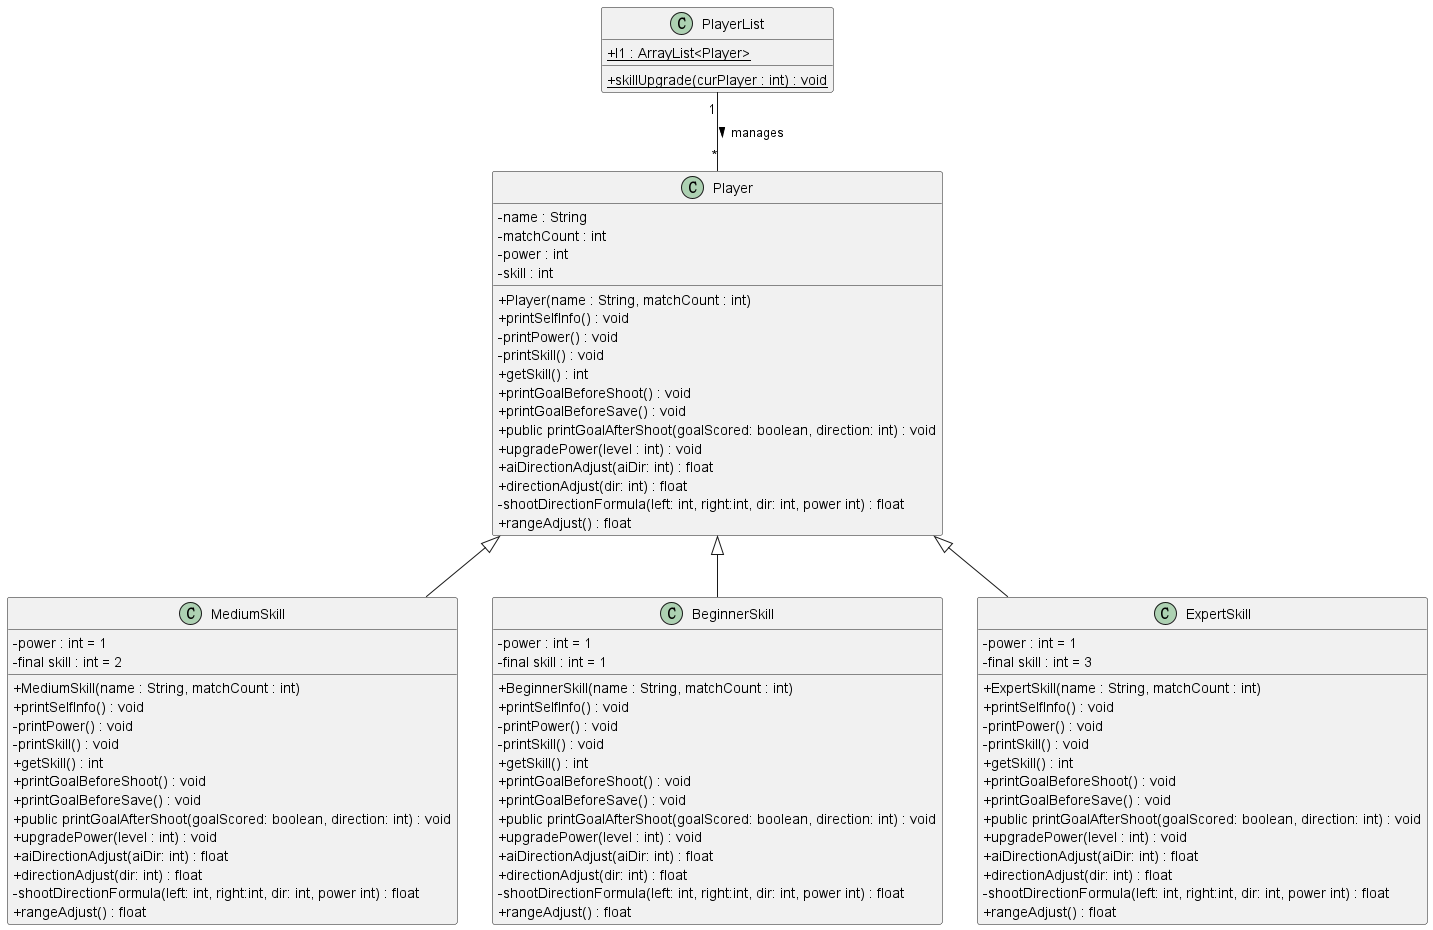
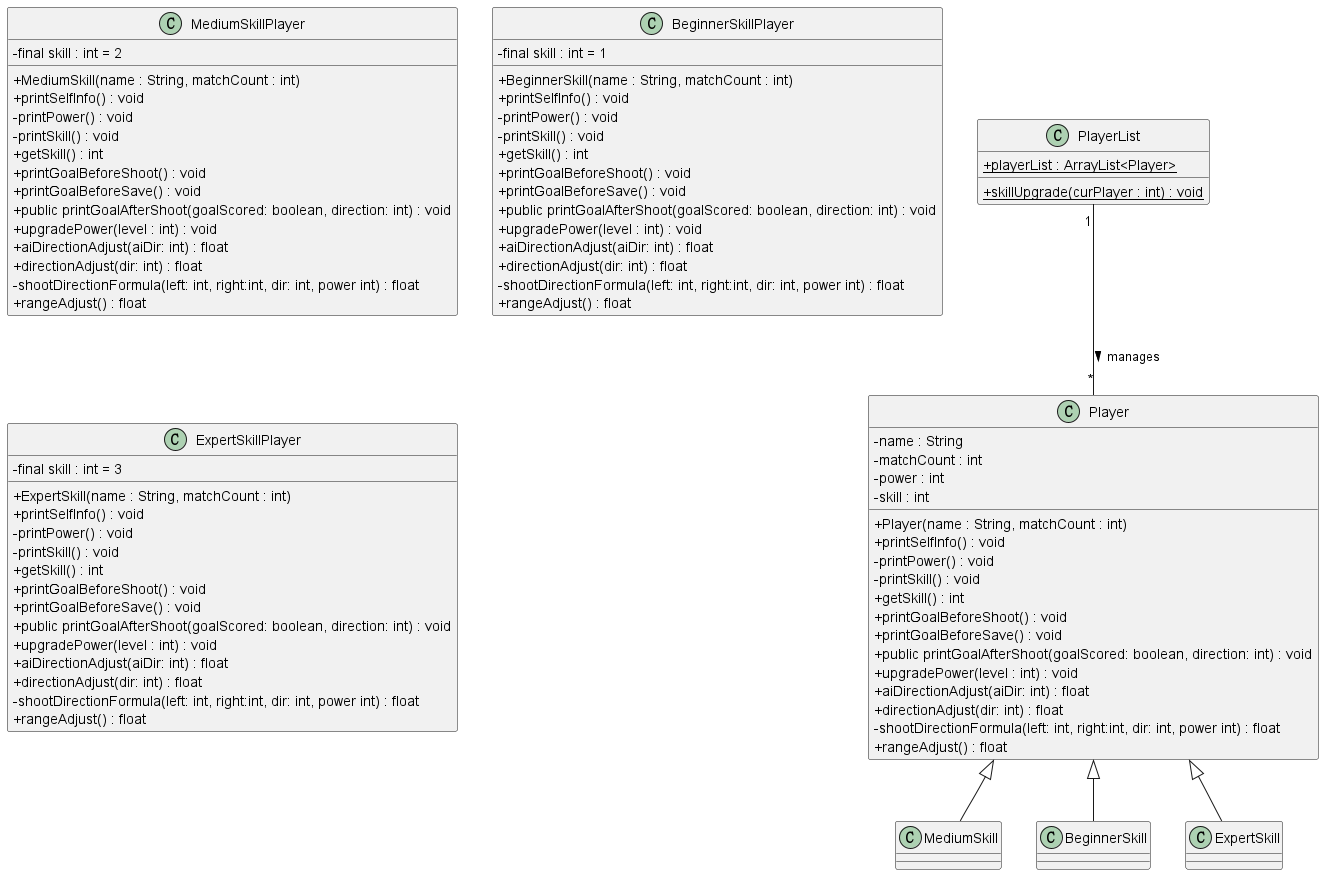
Minor changes on code quality

diff --git a/src/test/java/seedu/duke/PlayerListTest.java b/src/test/java/seedu/duke/PlayerListTest.java
@@ -1,55 +1,55 @@
 package seedu.duke;
 
 import org.junit.jupiter.api.Test;
-import seedu.duke.player.BeginnerSkill;
-import seedu.duke.player.ExpertSkill;
-import seedu.duke.player.MediumSkill;
+import seedu.duke.player.BeginnerSkillPlayer;
+import seedu.duke.player.ExpertSkillPlayer;
+import seedu.duke.player.MediumSkillPlayer;
 
 import static org.junit.jupiter.api.Assertions.*;
 
 class PlayerListTest {
     @Test
     void skillUpgrade_beginner5_expectMedium() {
-        PlayerList.l1.clear();
-        PlayerList.l1.add(new BeginnerSkill("Player1", 5)); // Assuming matchCount is 5
+        PlayerList.playerList.clear();
+        PlayerList.playerList.add(new BeginnerSkillPlayer("Player1", 5)); // Assuming matchCount is 5
         PlayerList.skillUpgrade(0);
-        assertEquals(1, PlayerList.l1.size());
-        assertTrue(PlayerList.l1.get(0) instanceof MediumSkill);
+        assertEquals(1, PlayerList.playerList.size());
+        assertTrue(PlayerList.playerList.get(0) instanceof MediumSkillPlayer);
     }
 
     @Test
     void skillUpgrade_medium3_expectMedium() {
-        PlayerList.l1.clear();
-        PlayerList.l1.add(new MediumSkill("Player1", 3)); // Assuming matchCount is 5
+        PlayerList.playerList.clear();
+        PlayerList.playerList.add(new MediumSkillPlayer("Player1", 3)); // Assuming matchCount is 5
         PlayerList.skillUpgrade(0);
-        assertEquals(1, PlayerList.l1.size());
-        assertTrue(PlayerList.l1.get(0) instanceof MediumSkill);
+        assertEquals(1, PlayerList.playerList.size());
+        assertTrue(PlayerList.playerList.get(0) instanceof MediumSkillPlayer);
     }
 
     @Test
     void skillUpgrade_medium5_expectExpert() {
-        PlayerList.l1.clear();
-        PlayerList.l1.add(new MediumSkill("Player1", 5)); // Assuming matchCount is 5
+        PlayerList.playerList.clear();
+        PlayerList.playerList.add(new MediumSkillPlayer("Player1", 5)); // Assuming matchCount is 5
         PlayerList.skillUpgrade(0);
-        assertEquals(1, PlayerList.l1.size());
-        assertTrue(PlayerList.l1.get(0) instanceof ExpertSkill);
+        assertEquals(1, PlayerList.playerList.size());
+        assertTrue(PlayerList.playerList.get(0) instanceof ExpertSkillPlayer);
     }
 
     @Test
     void skillUpgrade_medium6_expectExpert() {
-        PlayerList.l1.clear();
-        PlayerList.l1.add(new MediumSkill("Player1", 6)); // Assuming matchCount is 5
+        PlayerList.playerList.clear();
+        PlayerList.playerList.add(new MediumSkillPlayer("Player1", 6)); // Assuming matchCount is 5
         PlayerList.skillUpgrade(0);
-        assertEquals(1, PlayerList.l1.size());
-        assertTrue(PlayerList.l1.get(0) instanceof ExpertSkill);
+        assertEquals(1, PlayerList.playerList.size());
+        assertTrue(PlayerList.playerList.get(0) instanceof ExpertSkillPlayer);
     }
 
     @Test
     void skillUpgrade_expert4_expectExpert() {
-        PlayerList.l1.clear();
-        PlayerList.l1.add(new ExpertSkill("Player1", 4)); // Assuming matchCount is 5
+        PlayerList.playerList.clear();
+        PlayerList.playerList.add(new ExpertSkillPlayer("Player1", 4)); // Assuming matchCount is 5
         PlayerList.skillUpgrade(0);
-        assertEquals(1, PlayerList.l1.size());
-        assertTrue(PlayerList.l1.get(0) instanceof ExpertSkill);
+        assertEquals(1, PlayerList.playerList.size());
+        assertTrue(PlayerList.playerList.get(0) instanceof ExpertSkillPlayer);
     }
 }

diff --git a/src/main/java/seedu/duke/CommandList.java b/src/main/java/seedu/duke/CommandList.java
@@ -35,15 +35,15 @@ public enum CommandList {
     public static void executeShoot(String[] readArgumentTokens) {
         String selectedDirection = readArgumentTokens[0];
         int selectedDirectionIndex = Integer.parseInt(selectedDirection);
-        float adjustedDirection = PlayerList.l1.get(Ui.curPlayer).shootDirectionAdjust(selectedDirectionIndex);
-        float adjustedAiDirection = PlayerList.l1.get(Ui.curPlayer).aiDirectionAdjust(Ai.getAiDirection());
-        float adjustedRange = PlayerList.l1.get(Ui.curPlayer).rangeAdjust();
+        float adjustedDirection = PlayerList.playerList.get(Ui.curPlayer).shootDirectionAdjust(selectedDirectionIndex);
+        float adjustedAiDirection = PlayerList.playerList.get(Ui.curPlayer).aiDirectionAdjust(Ai.getAiDirection());
+        float adjustedRange = PlayerList.playerList.get(Ui.curPlayer).rangeAdjust();
 
         testForShoot(adjustedDirection, adjustedAiDirection, adjustedRange);
         boolean isScoreGoal = goalCheck(adjustedAiDirection, adjustedDirection,adjustedRange);
 
         MatchStat.updateStat(isScoreGoal);
-        PlayerList.l1.get(Ui.curPlayer).printGoalAfterShoot(isScoreGoal, Math.round(adjustedDirection));
+        PlayerList.playerList.get(Ui.curPlayer).printGoalAfterShoot(isScoreGoal, Math.round(adjustedDirection));
     }
 
     private static void testForShoot(float adjustedDirection, float adjustedAiDirection, float adjustedRange) {
@@ -55,8 +55,8 @@ public enum CommandList {
     public static void executeUpgrade(String[] level){
         String upgradeLevel = level[0];
         int upgradeLevelIndex = Integer.parseInt(upgradeLevel);
-        PlayerList.l1.get(Ui.curPlayer).upgradePower(upgradeLevelIndex);
-        PlayerList.l1.get(Ui.curPlayer).printSelfInfo();
+        PlayerList.playerList.get(Ui.curPlayer).upgradePower(upgradeLevelIndex);
+        PlayerList.playerList.get(Ui.curPlayer).printSelfInfo();
     }
 
     public static void executeSave(String[] readArgumentTokens) {

diff --git a/src/main/java/seedu/duke/PlayerList.java b/src/main/java/seedu/duke/PlayerList.java
@@ -1,6 +1,6 @@
 package seedu.duke;
-import seedu.duke.player.ExpertSkill;
-import seedu.duke.player.MediumSkill;
+import seedu.duke.player.ExpertSkillPlayer;
+import seedu.duke.player.MediumSkillPlayer;
 import seedu.duke.player.Player;
 import seedu.duke.stats.MatchStat;
 import seedu.duke.ui.Ui;
@@ -15,25 +15,25 @@ import java.util.ArrayList;
  *
  */
 public class PlayerList {
-    public static ArrayList<Player> l1 = new ArrayList<>();
+    public static ArrayList<Player> playerList = new ArrayList<>();
 
     public static void skillUpgrade(int curPlayer){
-        Player player = l1.get(curPlayer);
+        Player player = playerList.get(curPlayer);
         player.matchCount= Math.max(MatchStat.getMatchCount(),player.matchCount);
 
         if (player.getSkill()==1){
-            l1.add(new MediumSkill(player.name,player.matchCount));
+            playerList.add(new MediumSkillPlayer(player.name,player.matchCount, player.power));
             System.out.println("--------NUSFC24-------");
             System.out.println("Congratulations! Your player's skill has updated to medium level.");
         }else if ((player.getSkill()==2)&&(player.matchCount>=5)){
-            l1.add(new ExpertSkill(player.name,player.matchCount));
+            playerList.add(new ExpertSkillPlayer(player.name,player.matchCount, player.power));
             System.out.println("--------NUSFC24-------");
             System.out.println("Congratulations! Your player's skill has updated to expert level.");
         }else{
             return;
         }
-        Ui.curPlayer = l1.size()-2;
-        l1.remove(0);
-        l1.get(Ui.curPlayer).printSelfInfo();
+        Ui.curPlayer = playerList.size()-2;
+        playerList.remove(0);
+        playerList.get(Ui.curPlayer).printSelfInfo();
     }
 }

diff --git a/src/main/java/seedu/duke/Duke.java b/src/main/java/seedu/duke/Duke.java
@@ -1,8 +1,7 @@
 package seedu.duke;
 
 import seedu.duke.exception.ProcessInputException;
-import seedu.duke.player.BeginnerSkill;
-import seedu.duke.player.MediumSkill;
+import seedu.duke.player.BeginnerSkillPlayer;
 import seedu.duke.player.Player;
 import seedu.duke.stats.MatchStat;
 import seedu.duke.ui.Ui;
@@ -25,7 +24,7 @@ public class Duke {
             if (MatchStat.getIsMatchEnd()) {
                 Formatter.printMatchResult();
                 PlayerList.skillUpgrade(Ui.curPlayer);
-                playerThisRound = PlayerList.l1.get(Ui.curPlayer);
+                playerThisRound = PlayerList.playerList.get(Ui.curPlayer);
             } else if (MatchStat.getIsPlayerTurn()) {
                 playerThisRound.printGoalBeforeShoot();
             } else {
@@ -43,8 +42,8 @@ public class Duke {
 
     //Bruno is a sample player for demonstration, you can try any level player
     private static Player createNewPlayer() {
-        PlayerList.l1.add(new MediumSkill("Bruno",5));
-        Player playerThisRound = PlayerList.l1.get(Ui.curPlayer);
+        PlayerList.playerList.add(new BeginnerSkillPlayer("Bruno",0));
+        Player playerThisRound = PlayerList.playerList.get(Ui.curPlayer);
         playerThisRound.printSelfInfo();
         MatchStat.setMatchCount(playerThisRound.matchCount);
         return playerThisRound;

diff --git a/src/main/java/seedu/duke/player/Player.java b/src/main/java/seedu/duke/player/Player.java
@@ -7,14 +7,22 @@ import java.util.Random;
 public class Player {
     public String name;
     public int matchCount;
-    private int power;
+    public int power;
     private int skill;
     Random rand = new Random();
 
     public Player(String name, int matchCount) {
         this.name = name;
         this.matchCount = matchCount;
+        this.power=1;
     }
+
+    public Player(String name, int matchCount, int power) {
+        this.name = name;
+        this.matchCount = matchCount;
+        this.power = power;
+    }
+
     public void printSelfInfo(){
         System.out.println("--------Player Info--------");
         System.out.println("Name: "+this.name);

diff --git a/docs/DeveloperGuide.md b/docs/DeveloperGuide.md
@@ -165,55 +165,6 @@ Subclasses `BeginnerSkill`, `MediumSkill`, and `ExpertSkill` are derived from th
 
 ```java
 public class MediumSkill extends Player {
-    private int power = 1;
-    private final int skill = 2;
-    Random rand = new Random();
-    public MediumSkill(String name, int matchCount) {
-        super(name, matchCount);
-    }
-
-    @Override
-    public void printSelfInfo() {
-        super.printSelfInfo();
-    }
-
-    @Override
-    protected void printPower() {
-        System.out.print("Power:");
-        for (int i=0; i<3;i++){
-            if (i<power){
-                System.out.print(" ###");
-            }else{
-                System.out.print("    ");
-            }
-        }
-        if (power==1){
-            System.out.println(" Level-Beginner");
-        }else if (power == 2){
-            System.out.println(" Level-Medium");
-        }else{
-            System.out.println(" Level-Expert");
-        }
-    }
-
-    @Override
-    public int getSkill() {
-        return skill;
-    }
-
-    @Override
-    protected void printSkill(){
-        System.out.print("Skill:");
-        for (int i=0; i<3;i++){
-            if (i<skill){
-                System.out.print(" ###");
-            }else{
-                System.out.print("    ");
-            }
-        }
-        System.out.println(" Level-Medium");
-    }
-
     @Override
     public void printGoalBeforeShoot() {
         Formatter.printGoalBeforeShotforMedium();
@@ -227,52 +178,6 @@ public class MediumSkill extends Player {
     @Override
     public void printGoalAfterShoot(boolean goalScored, int direction) {
         Formatter.printGoalAfterShotMedium(goalScored, direction);
-    }
-    @Override
-    public void upgradePower(int level) {
-        assert level>=0&&level<=2;
-        this.power=level+1;
-    }
-
-    @Override
-    public float shootDirectionAdjust(int dir){
-        if (dir>5){
-            System.out.println("Oops! Remember, beginners start with directions 0, 1, and 2. But keep playing to unlock more kicks!");
-            System.out.println("Practice makes perfect. Let's aim for those goals together!");
-            dir = dir%6;
-        }
-        int left=(dir-1==0)?0:dir-1;
-        int right=(dir+1==5)?5:dir+1;
-        return this.shootDirectionFormula(left,right,dir,this.power);
-    }
-
-    @Override
-    public float shootDirectionFormula(int left, int right, int dir, int power) {
-        return super.shootDirectionFormula(left, right, dir, power);
-    }
-
-    @Override
-    public float aiDirectionAdjust(int aiDir) {
-        return (float) (2.5*aiDir);
-    }
-
-    @Override
-    public float rangeAdjust() {
-        float range=0;
-        switch (Ui.difficultyLevel){
-        case EASY:
-            range = (float)0.25;
-            break;
-        case MEDIUM:
-            range = (float)0.5;
-            break;
-        case HARD:
-            range = (float)1.25;
-            break;
-        default:
-            range =0;
-        }
-        return range;
     }
 }
 ```
